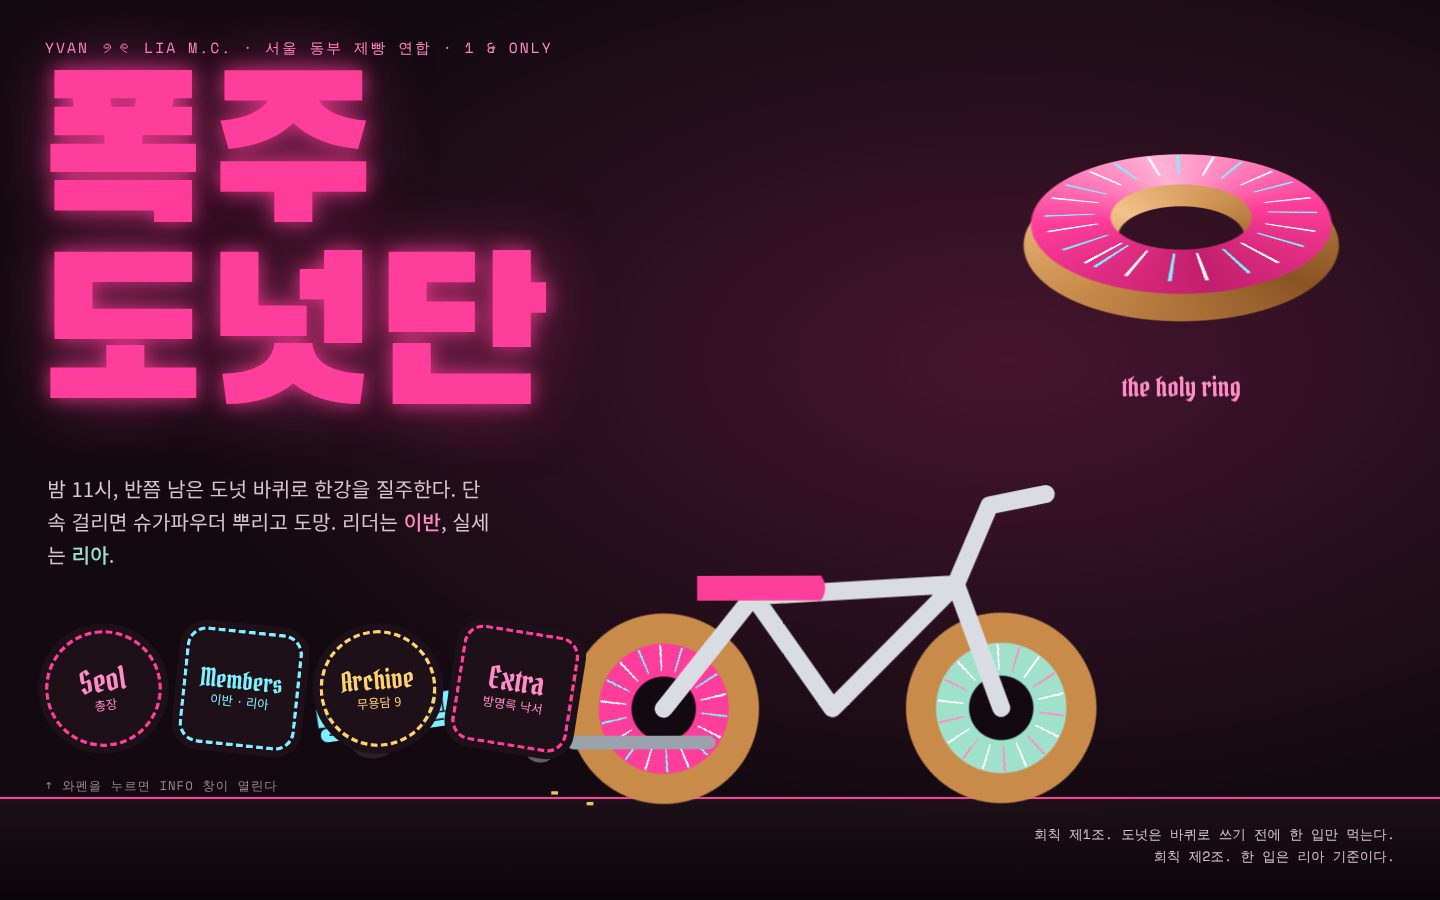
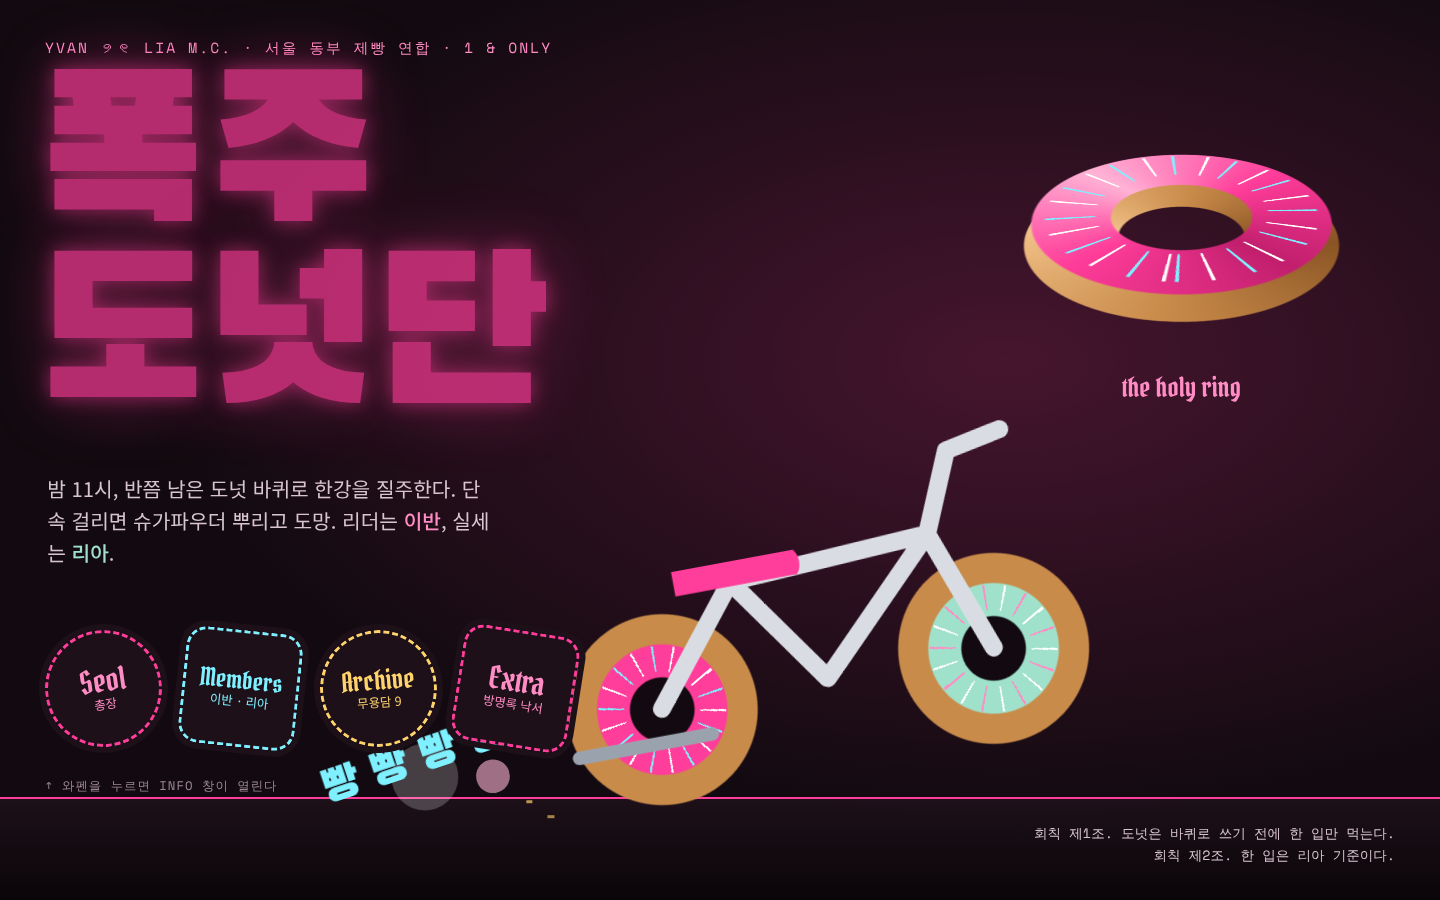
Make 폭주 도넛단 page work when embedded as a widget
- Size the hero from the page width with container units instead of
  JS and viewport height, so an auto-height iframe cannot feed back
- Open popups inside the page under the scroll position instead of
  position:fixed, so they show up in embeds too
- Use container queries for the narrow layout and keep the honk text
  on screen on mobile

Claude-Session: https://claude.ai/code/session_01TctSqQqMkx3JrwFVdshVDq

diff --git a/lovinfo/donut-gang.html b/lovinfo/donut-gang.html
@@ -24,7 +24,6 @@
 *{box-sizing:border-box}
 html,body{margin:0}
 body{background:var(--bg);color:var(--ink);font:400 16px/1.6 var(--kr);-webkit-font-smoothing:antialiased;overflow-x:hidden}
-body.locked{overflow:hidden}
 button{font:inherit;color:inherit;cursor:pointer}
 button:focus-visible,a:focus-visible,input:focus-visible,textarea:focus-visible{outline:2px solid var(--mint);outline-offset:2px}
 .sr-only{position:absolute;width:1px;height:1px;overflow:hidden;clip:rect(0 0 0 0);white-space:nowrap}
@@ -38,90 +37,92 @@ button:focus-visible,a:focus-visible,input:focus-visible,textarea:focus-visible{
 @keyframes sprk{0%{transform:translate(0,0);opacity:1}100%{transform:translate(-120px,40px);opacity:0}}
 @keyframes pop{from{transform:rotate(var(--r,0deg)) scale(.4);opacity:0}to{transform:rotate(var(--r,0deg)) scale(1);opacity:1}}
 
-/* ───────── 메인: 1280×800 시안을 화면에 맞춰 스케일 ───────── */
-.hero{--s:1;position:relative;height:calc(800px * var(--s));min-height:100svh;background:var(--bg);overflow:hidden}
-.hero::after{content:"";position:absolute;left:0;right:0;bottom:0;height:calc(90px * var(--s) + max(0px, 100svh - 800px * var(--s)));background:linear-gradient(var(--bg2),var(--bg3));border-top:2px solid var(--pink)}
-.stage{position:absolute;left:50%;top:0;z-index:1;width:1280px;height:800px;transform:translateX(-50%) scale(var(--s));transform-origin:top center}
+/* ───────── 메인: 1280×800 시안. 1u = 시안의 1px (페이지 폭 기준, 창 높이와 무관) ───────── */
+.page{position:relative;container-type:inline-size;width:100%;max-width:100%;overflow-x:clip}
+.hero{--u:min(.078125cqw,1.5px);position:relative;height:calc(800 * var(--u));background:var(--bg);overflow:hidden}
+.hero::after{content:"";position:absolute;left:0;right:0;bottom:0;height:calc(90 * var(--u));background:linear-gradient(var(--bg2),var(--bg3));border-top:2px solid var(--pink)}
+.stage{position:absolute;left:50%;top:0;z-index:1;width:calc(1280 * var(--u));height:100%;transform:translateX(-50%)}
 .glow{position:absolute;inset:0;background:radial-gradient(ellipse at 70% 40%,rgba(255,61,154,.22),transparent 60%)}
-.kicker{position:absolute;left:40px;top:32px;margin:0;font-family:var(--mono);font-size:13px;letter-spacing:.14em;color:var(--pink-l)}
-.title{position:absolute;left:34px;top:64px;margin:0;font-family:var(--display);font-weight:400;font-size:180px;line-height:.9;color:var(--pink);text-shadow:0 0 18px rgba(255,61,154,.8),0 0 60px rgba(255,61,154,.5);animation:flick 4s linear infinite}
-.lede{position:absolute;left:42px;top:420px;margin:0;width:400px;font-size:18px;line-height:1.6;color:var(--dim)}
+.kicker{position:absolute;left:calc(40*var(--u));top:calc(32*var(--u));margin:0;font-family:var(--mono);font-size:calc(13*var(--u));letter-spacing:.14em;color:var(--pink-l)}
+.title{position:absolute;left:calc(34*var(--u));top:calc(64*var(--u));margin:0;font-family:var(--display);font-weight:400;font-size:calc(180*var(--u));line-height:.9;color:var(--pink);text-shadow:0 0 calc(18*var(--u)) rgba(255,61,154,.8),0 0 calc(60*var(--u)) rgba(255,61,154,.5);animation:flick 4s linear infinite}
+.lede{position:absolute;left:calc(42*var(--u));top:calc(420*var(--u));margin:0;width:calc(400*var(--u));font-size:calc(18*var(--u));line-height:1.6;color:var(--dim)}
 .lede b{font-weight:500}
 .lede .y{color:var(--pink-l)} .lede .l{color:var(--mint2)}
-.ring{position:absolute;left:880px;top:30px;width:340px;height:340px;perspective:900px}
-.torus{position:absolute;inset:30px;transform-style:preserve-3d;animation:torus 5s linear infinite}
+.ring{position:absolute;left:calc(880*var(--u));top:calc(30*var(--u));width:calc(340*var(--u));height:calc(340*var(--u));perspective:calc(900*var(--u))}
+.torus{position:absolute;inset:calc(30*var(--u));transform-style:preserve-3d;animation:torus 5s linear infinite}
 .torus>div{position:absolute;inset:0;border-radius:50%}
-.dough{background:conic-gradient(from 0deg,#c98b4a,#f3c38a,#c98b4a,#8a5424,#c98b4a);-webkit-mask:radial-gradient(circle,transparent 0 28%,#000 29% 70%,transparent 71%);mask:radial-gradient(circle,transparent 0 28%,#000 29% 70%,transparent 71%);transform:translateZ(-10px)}
-.glaze{background:conic-gradient(from 40deg,#ff3d9a,#ffb3d6,#ff3d9a,#c21f6e,#ff3d9a);-webkit-mask:radial-gradient(circle,transparent 0 31%,#000 32% 66%,transparent 67%);mask:radial-gradient(circle,transparent 0 31%,#000 32% 66%,transparent 67%);transform:translateZ(10px)}
-.sprinkles{background:repeating-conic-gradient(#fff 0 1.5deg,transparent 1.5deg 14deg,#7ef0ff 14deg 15.5deg,transparent 15.5deg 31deg);-webkit-mask:radial-gradient(circle,transparent 0 38%,#000 39% 60%,transparent 61%);mask:radial-gradient(circle,transparent 0 38%,#000 39% 60%,transparent 61%);transform:translateZ(14px)}
-.ring-label{position:absolute;left:0;right:0;bottom:6px;text-align:center;font-family:var(--gothic);font-size:24px;color:var(--pink-l)}
-.bike-wrap{position:absolute;left:470px;top:400px;width:520px;height:300px}
-.bike{position:absolute;left:0;bottom:0;width:520px;height:300px;transform-origin:120px 240px;animation:wheelie 3s ease-in-out infinite}
-.bike svg{position:absolute;inset:0;overflow:visible}
-.wheel{position:absolute;top:140px;width:180px;height:180px;border-radius:50%;background:radial-gradient(circle,var(--bg) 0 22%,var(--pink) 23% 45%,var(--dough) 46% 66%,transparent 67%);animation:spin .5s linear infinite}
-.w1{left:30px}.w2{left:330px;background:radial-gradient(circle,var(--bg) 0 22%,var(--mint2) 23% 45%,var(--dough) 46% 66%,transparent 67%)}
+.dough{background:conic-gradient(from 0deg,#c98b4a,#f3c38a,#c98b4a,#8a5424,#c98b4a);-webkit-mask:radial-gradient(circle,transparent 0 28%,#000 29% 70%,transparent 71%);mask:radial-gradient(circle,transparent 0 28%,#000 29% 70%,transparent 71%);transform:translateZ(calc(-10*var(--u)))}
+.glaze{background:conic-gradient(from 40deg,#ff3d9a,#ffb3d6,#ff3d9a,#c21f6e,#ff3d9a);-webkit-mask:radial-gradient(circle,transparent 0 31%,#000 32% 66%,transparent 67%);mask:radial-gradient(circle,transparent 0 31%,#000 32% 66%,transparent 67%);transform:translateZ(calc(10*var(--u)))}
+.sprinkles{background:repeating-conic-gradient(#fff 0 1.5deg,transparent 1.5deg 14deg,#7ef0ff 14deg 15.5deg,transparent 15.5deg 31deg);-webkit-mask:radial-gradient(circle,transparent 0 38%,#000 39% 60%,transparent 61%);mask:radial-gradient(circle,transparent 0 38%,#000 39% 60%,transparent 61%);transform:translateZ(calc(14*var(--u)))}
+.ring-label{position:absolute;left:0;right:0;bottom:calc(6*var(--u));text-align:center;font-family:var(--gothic);font-size:calc(24*var(--u));color:var(--pink-l)}
+.bike-wrap{position:absolute;left:calc(470*var(--u));top:calc(400*var(--u));width:calc(520*var(--u));height:calc(300*var(--u))}
+.bike{position:absolute;left:0;bottom:0;width:100%;height:100%;transform-origin:23% 80%;animation:wheelie 3s ease-in-out infinite}
+.bike svg{position:absolute;left:0;top:0;width:100%;height:calc(320*var(--u));overflow:visible}
+.wheel{position:absolute;top:calc(140*var(--u));width:calc(180*var(--u));height:calc(180*var(--u));border-radius:50%;background:radial-gradient(circle,var(--bg) 0 22%,var(--pink) 23% 45%,var(--dough) 46% 66%,transparent 67%);animation:spin .5s linear infinite}
+.w1{left:calc(30*var(--u))}.w2{left:calc(330*var(--u));background:radial-gradient(circle,var(--bg) 0 22%,var(--mint2) 23% 45%,var(--dough) 46% 66%,transparent 67%)}
 .wheel-spr{position:absolute;inset:0;border-radius:50%;background:repeating-conic-gradient(#fff 0 2deg,transparent 2deg 20deg,#7ef0ff 20deg 22deg,transparent 22deg 40deg);-webkit-mask:radial-gradient(circle,transparent 0 26%,#000 27% 44%,transparent 45%);mask:radial-gradient(circle,transparent 0 26%,#000 27% 44%,transparent 45%)}
 .w2 .wheel-spr{background:repeating-conic-gradient(#fff 0 2deg,transparent 2deg 20deg,#ff8cc4 20deg 22deg,transparent 22deg 40deg)}
 .puff{position:absolute;left:0;border-radius:50%;animation:exhaust 1s ease-out infinite}
-.p1{top:240px;width:50px;height:50px;background:rgba(255,255,255,.7)}
-.p2{top:250px;width:36px;height:36px;background:rgba(255,179,214,.7);animation-delay:.35s}
-.honk{position:absolute;left:-190px;top:200px;font-family:var(--display);font-size:40px;color:var(--mint);transform:rotate(-8deg);white-space:nowrap}
-.spark{position:absolute;width:6px;height:3px;background:var(--yellow);animation:sprk .6s linear infinite}
-.s1{left:30px;top:300px}.s2{left:60px;top:310px;animation-duration:.7s;animation-delay:.2s}
-.road{position:absolute;left:0;right:0;bottom:0;height:90px}
-.patches{position:absolute;left:40px;top:560px;display:flex;gap:18px;z-index:2}
-.patch{--c:var(--pink);--t:var(--pink-l);width:104px;height:104px;padding:0;background:var(--bg2);border:3px dashed var(--c);outline:6px solid var(--bg2);display:flex;flex-direction:column;align-items:center;justify-content:center;color:var(--t);line-height:1.3;transform:rotate(var(--r,0deg));transition:all .2s}
-.patch.round{border-radius:50%}.patch.square{border-radius:18px}
+.p1{top:calc(240*var(--u));width:calc(50*var(--u));height:calc(50*var(--u));background:rgba(255,255,255,.7)}
+.p2{top:calc(250*var(--u));width:calc(36*var(--u));height:calc(36*var(--u));background:rgba(255,179,214,.7);animation-delay:.35s}
+.honk{position:absolute;left:calc(-190*var(--u));top:calc(200*var(--u));font-family:var(--display);font-size:calc(40*var(--u));color:var(--mint);transform:rotate(-8deg);white-space:nowrap}
+.spark{position:absolute;width:calc(6*var(--u));height:calc(3*var(--u));background:var(--yellow);animation:sprk .6s linear infinite}
+.s1{left:calc(30*var(--u));top:calc(300*var(--u))}.s2{left:calc(60*var(--u));top:calc(310*var(--u));animation-duration:.7s;animation-delay:.2s}
+.road{display:none}
+.patches{position:absolute;left:calc(40*var(--u));top:calc(560*var(--u));display:flex;gap:calc(18*var(--u));z-index:2}
+.patch{--c:var(--pink);--t:var(--pink-l);width:calc(104*var(--u));height:calc(104*var(--u));padding:0;background:var(--bg2);border:calc(3*var(--u)) dashed var(--c);outline:calc(6*var(--u)) solid var(--bg2);display:flex;flex-direction:column;align-items:center;justify-content:center;color:var(--t);line-height:1.3;transform:rotate(var(--r,0deg));transition:all .2s}
+.patch.round{border-radius:50%}.patch.square{border-radius:calc(18*var(--u))}
 .patch.mint{--c:var(--mint);--t:var(--mint)}.patch.yellow{--c:var(--yellow);--t:var(--yellow)}
-.patch .pt{font-size:28px;line-height:1}.patch .pt.sm{font-size:22px}.patch .pt.md{font-size:24px}
-.patch small{font-size:11px}
-.patch:hover,.patch:focus-visible,.patch[aria-expanded="true"]{transform:rotate(0) scale(1.08);background:var(--c);color:var(--bg);outline:6px solid var(--bg2)}
-.rules{position:absolute;right:40px;bottom:30px;margin:0;font-family:var(--mono);font-size:12px;color:var(--dim);text-align:right}
-.hint{position:absolute;left:40px;top:690px;margin:0;font-family:var(--mono);font-size:11px;color:var(--mute);letter-spacing:.08em}
+.patch .pt{font-size:calc(28*var(--u));line-height:1}.patch .pt.sm{font-size:calc(22*var(--u))}.patch .pt.md{font-size:calc(24*var(--u))}
+.patch small{font-size:calc(11*var(--u))}
+.patch:hover,.patch:focus-visible,.patch[aria-expanded="true"]{transform:rotate(0) scale(1.08);background:var(--c);color:var(--bg)}
+.rules{position:absolute;right:calc(40*var(--u));bottom:calc(30*var(--u));margin:0;font-family:var(--mono);font-size:calc(12*var(--u));color:var(--dim);text-align:right}
+.hint{position:absolute;left:calc(40*var(--u));top:calc(690*var(--u));margin:0;font-family:var(--mono);font-size:calc(11*var(--u));color:var(--mute);letter-spacing:.08em}
 
-@media (max-width:759px){
-  .hero{height:auto;min-height:100svh;display:flex;flex-direction:column}
+/* 좁은 폭(모바일·작은 위젯): 세로로 쌓기 */
+@container (max-width:759px){
+  .hero{height:auto}
   .hero::after{display:none}
-  .stage{position:relative;left:auto;width:auto;height:auto;transform:none;flex:1;padding:calc(20px + env(safe-area-inset-top)) 16px 0;display:flex;flex-direction:column}
+  .stage{--u:1px;position:relative;left:auto;width:auto;height:auto;transform:none;padding:20px 16px 0;display:flex;flex-direction:column}
   .stage>*{position:relative;left:auto;right:auto;top:auto;bottom:auto}
   .glow{position:absolute;inset:0}
   .kicker{order:1;font-size:11px;letter-spacing:.06em;padding-right:120px}
-  .title{order:2;margin-top:14px;font-size:clamp(76px,27vw,140px)}
-  .ring{order:0;position:absolute;top:56px;right:-22px;left:auto;width:170px;height:170px}
-  .ring .torus{inset:15px}
+  .title{order:2;margin-top:14px;font-size:clamp(64px,27cqw,140px)}
+  .ring{--u:.5px;order:0;position:absolute;top:56px;right:-22px;left:auto}
   .ring-label{font-size:15px;bottom:-6px}
   .lede{order:3;width:auto;margin-top:18px;font-size:16px}
-  .bike-wrap{order:4;align-self:center;width:520px;height:300px;transform:scale(.55);margin:-50px -100px -70px}
-  .honk{left:-40px;top:100px}
-  .patches{order:5;display:grid;grid-template-columns:repeat(4,1fr);gap:10px;padding:0 4px 8px;justify-items:center}
-  .patch{width:min(21vw,92px);height:min(21vw,92px);outline-width:4px}
-  .patch .pt,.patch .pt.sm,.patch .pt.md{font-size:min(5vw,22px)}
+  .bike-wrap{--u:min(.55px,.14cqw);order:4;align-self:center;left:calc(70*var(--u));margin-top:20px}
+  .honk{left:calc(-40*var(--u));top:calc(110*var(--u))}
+  .patches{--u:1px;order:5;display:grid;grid-template-columns:repeat(4,1fr);gap:10px;padding:6px 4px 8px;justify-items:center}
+  .patch{width:min(21cqw,92px);height:min(21cqw,92px);border-width:3px;outline-width:4px}
+  .patch .pt,.patch .pt.sm,.patch .pt.md{font-size:min(5cqw,22px)}
   .patch small{font-size:9.5px;text-align:center}
-  .hint{order:6;text-align:center;padding:8px 0 14px}
-  .road{order:7;height:0;border-top:2px solid var(--pink);margin:0 -16px}
-  .rules{order:8;flex:1;margin:0 -16px;padding:14px 16px calc(22px + env(safe-area-inset-bottom));background:linear-gradient(var(--bg2),var(--bg3));font-size:11px}
+  .hint{order:6;text-align:center;padding:8px 0 14px;font-size:11px}
+  .road{display:block;order:7;height:0;border-top:2px solid var(--pink);margin:0 -16px}
+  .rules{order:8;margin:0 -16px;padding:14px 16px 22px;background:linear-gradient(var(--bg2),var(--bg3));font-size:11px}
 }
 
-/* ───────── 팝업 ───────── */
-.pop{position:fixed;inset:0;z-index:50;display:flex;align-items:center;justify-content:center;padding:24px 16px;background:rgba(10,5,8,.62);backdrop-filter:blur(3px);-webkit-backdrop-filter:blur(3px);opacity:0;pointer-events:none;transition:opacity .18s}
-.pop.on{opacity:1;pointer-events:auto}
-.win{position:relative;width:100%;max-width:560px;max-height:calc(100svh - 48px);display:flex;flex-direction:column;background:var(--surface);border:3px dashed var(--c,var(--pink));outline:6px solid var(--surface);border-radius:18px;overflow:hidden;transform:translateY(16px) scale(.96) rotate(-1deg);transition:transform .24s cubic-bezier(.3,1.5,.5,1)}
-.pop.on .win{transform:none}
+/* ───────── 팝업: 페이지 안에 붙는 창 (위젯·iframe 안에서도 동작) ───────── */
+.pop{position:absolute;left:0;right:0;top:0;min-height:100%;z-index:50;display:none;justify-content:center;align-items:flex-start;padding:var(--pop-top,40px) 16px 40px;background:rgba(10,5,8,.66);backdrop-filter:blur(3px);-webkit-backdrop-filter:blur(3px)}
+.pop.on{display:flex;animation:fade .18s ease-out}
+@keyframes fade{from{opacity:0}to{opacity:1}}
+@keyframes rise{from{transform:translateY(16px) scale(.96) rotate(-1deg)}to{transform:none}}
+.win{position:relative;width:100%;max-width:560px;background:var(--surface);border:3px dashed var(--c,var(--pink));outline:6px solid var(--surface);border-radius:18px;overflow:hidden;animation:rise .24s cubic-bezier(.3,1.5,.5,1)}
 .win.wide{max-width:680px}
 .win-head{display:flex;align-items:center;gap:10px;padding:12px 12px 12px 16px;background:var(--bg2);border-bottom:1px dashed var(--line2)}
 .win-tag{font:700 11px var(--mono);letter-spacing:.1em;color:var(--c,var(--pink));padding:2px 8px;border:1px dashed var(--c,var(--pink));border-radius:6px}
-.win-title{flex:1;margin:0;font-family:var(--gothic);font-weight:400;font-size:26px;line-height:1;color:var(--c,var(--pink));text-shadow:0 0 12px color-mix(in srgb,var(--c,var(--pink)) 50%,transparent)}
+.win-title{flex:1;min-width:0;margin:0;font-family:var(--gothic);font-weight:400;font-size:26px;line-height:1;color:var(--c,var(--pink));text-shadow:0 0 12px color-mix(in srgb,var(--c,var(--pink)) 50%,transparent)}
 .win-title small{font:400 13px var(--kr);color:var(--mute);margin-left:6px;text-shadow:none}
-.x{width:40px;height:40px;border-radius:10px;border:1px solid var(--line2);background:transparent;display:grid;place-items:center;font-size:18px;color:var(--dim);transition:background .15s}
+.x{flex:none;width:40px;height:40px;border-radius:10px;border:1px solid var(--line2);background:transparent;display:grid;place-items:center;font-size:18px;color:var(--dim);transition:background .15s}
 .x:hover{background:var(--surface2);color:var(--ink)}
-.win-body{padding:18px;overflow-y:auto;overscroll-behavior:contain}
+.win-body{padding:18px}
 .panel[hidden]{display:none}
-@media (max-width:599px){
-  .pop{align-items:flex-end;padding:0}
-  .win,.win.wide{max-width:none;max-height:90svh;border-radius:20px 20px 0 0;border-bottom:0;outline:0;transform:translateY(100%)}
-  .win-head{padding-top:16px;position:relative}
-  .win-head::before{content:"";position:absolute;left:50%;top:6px;width:40px;height:4px;margin-left:-20px;border-radius:2px;background:var(--line2)}
-  .win-body{padding:16px 16px calc(20px + env(safe-area-inset-bottom))}
+@container (max-width:599px){
+  .pop{padding:var(--pop-top,16px) 10px 24px}
+  .win{outline-width:4px;border-radius:16px}
+  .win-body{padding:14px}
+  .win-title{font-size:22px}
+  .seol{grid-template-columns:1fr!important;justify-items:center;text-align:center}
 }
 
 /* 공통 */
@@ -209,7 +210,7 @@ button:focus-visible,a:focus-visible,input:focus-visible,textarea:focus-visible{
 </style>
 </head>
 <body>
-
+<div class="page" id="page">
 <main class="hero" id="top">
   <div class="stage">
     <div class="glow"></div>
@@ -331,6 +332,7 @@ button:focus-visible,a:focus-visible,input:focus-visible,textarea:focus-visible{
     </div>
   </section>
 </div>
+</div>
 
 <script>
 (function () {
@@ -371,13 +373,6 @@ button:focus-visible,a:focus-visible,input:focus-visible,textarea:focus-visible{
   function $(id) { return document.getElementById(id); }
   function h(tag, cls, text) { var n = document.createElement(tag); if (cls) n.className = cls; if (text != null) n.textContent = text; return n; }
 
-  /* ───────── 메인 스케일 ───────── */
-  var hero = document.querySelector('.hero'), narrow = matchMedia('(max-width: 759px)');
-  function fit() {
-    var w = document.documentElement.clientWidth, hgt = window.innerHeight;
-    hero.style.setProperty('--s', narrow.matches ? 1 : Math.min(w / 1280, Math.max(hgt / 800, .6), 1.5).toFixed(4));
-  }
-  fit(); addEventListener('resize', fit);
   document.querySelectorAll('[data-count]').forEach(function (n) { n.textContent = ARCHIVE.length; });
 
   /* ───────── 팝업 ───────── */
@@ -391,14 +386,17 @@ button:focus-visible,a:focus-visible,input:focus-visible,textarea:focus-visible{
     $('winT').append(p.title, h('small', null, p.sub));
     document.querySelectorAll('.panel').forEach(function (el) { el.hidden = el.dataset.panel !== k; });
     document.querySelectorAll('.patch').forEach(function (b) { b.setAttribute('aria-expanded', b === btn ? 'true' : 'false'); });
-    $('winBody').scrollTop = 0;
-    pop.classList.add('on'); pop.setAttribute('aria-hidden', 'false'); document.body.classList.add('locked');
+    // 창은 지금 보이는 위치에 연다 (독립 페이지면 스크롤 위치, 위젯 안이면 맨 위)
+    var page = $('page');
+    pop.style.setProperty('--pop-top', (Math.max(0, -page.getBoundingClientRect().top) + 24) + 'px');
+    pop.classList.add('on'); pop.setAttribute('aria-hidden', 'false');
     $('winX').focus({ preventScroll: true });
+    win.scrollIntoView({ block: 'nearest', behavior: reduce ? 'auto' : 'smooth' });
     if (k === 'members') startRide();
   }
   function closePop() {
     if (!current) return;
-    pop.classList.remove('on'); pop.setAttribute('aria-hidden', 'true'); document.body.classList.remove('locked');
+    pop.classList.remove('on'); pop.setAttribute('aria-hidden', 'true');
     document.querySelectorAll('.patch').forEach(function (b) { b.setAttribute('aria-expanded', 'false'); });
     stopRide(); current = null;
     if (lastBtn) lastBtn.focus();
@@ -417,18 +415,6 @@ button:focus-visible,a:focus-visible,input:focus-visible,textarea:focus-visible{
       else if (!e.shiftKey && document.activeElement === f[f.length - 1]) { e.preventDefault(); f[0].focus(); }
     }
   });
-  // 모바일 바텀시트: 아래로 끌어서 닫기
-  (function () {
-    var head = win.querySelector('.win-head'), y0 = null;
-    head.addEventListener('touchstart', function (e) { y0 = e.touches[0].clientY; }, { passive: true });
-    head.addEventListener('touchmove', function (e) { if (y0 == null) return; var d = Math.max(0, e.touches[0].clientY - y0); win.style.transition = 'none'; win.style.transform = 'translateY(' + d + 'px)'; }, { passive: true });
-    head.addEventListener('touchend', function (e) {
-      if (y0 == null) return; var d = e.changedTouches[0].clientY - y0; y0 = null;
-      win.style.transition = ''; win.style.transform = '';
-      if (d > 90) closePop();
-    });
-  })();
-
   /* ───────── Members 위젯: 도넛 바퀴 바이크 ───────── */
   var NS = 'http://www.w3.org/2000/svg';
   function sv(t, a, p) { var e = document.createElementNS(NS, t); for (var k in a) e.setAttribute(k, a[k]); if (p) p.appendChild(e); return e; }
